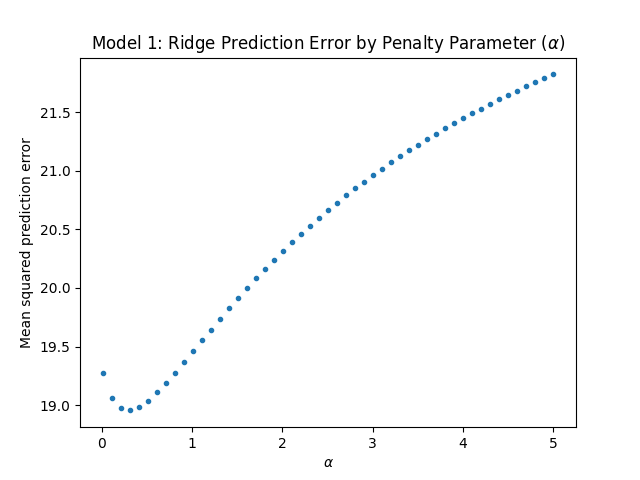
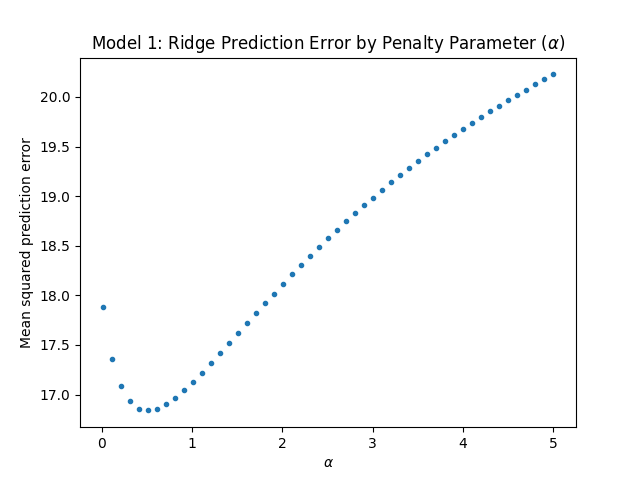
Added the ability to change order of summ. table rows

diff --git a/code/fepredictionmodel.py b/code/fepredictionmodel.py
@@ -70,7 +70,6 @@ class FEPredictionModel:
     """
     Run fixed-effects ridge regression and produce summary statistics. 
     """
-
     def run_ridge(self, fixed_effects_var, exclude_variables=None):
 
         # generate one dummy variable for each entity except for one
@@ -86,8 +85,8 @@ class FEPredictionModel:
 
         # drop researcher-specified features
         if exclude_variables is not None:
-            self.x_train.drop(columns=exclude_variables)
-            self.x_test.drop(columns=exclude_variables)
+            self.x_train = self.x_train.drop(columns=exclude_variables)
+            self.x_test = self.x_test.drop(columns=exclude_variables)
 
         # run ridge with multiple alphas and pick the best
         alphas = np.linspace(0.01, 5, num=51)
@@ -117,14 +116,13 @@ class FEPredictionModel:
     """
     Produces a KDE of the distribution of a certain variable.
     """
-
     def get_kde_plot(self, column, plot_title, xlabel):
         figure1 = plt.figure(1)
         # kde plot for training dataset
-        ax1 = pd.concat([self.x_train, self.y_train], axis=1)[column].plot.kde(title=plot_title,
+        pd.concat([self.x_train, self.y_train], axis=1)[column].plot.kde(title=plot_title,
                                                                                label='Training dataset')
         # kde plot for testing dataset
-        ax1 = pd.concat([self.x_test, self.y_test], axis=1)[column].plot.kde(label='Testing dataset')
+        pd.concat([self.x_test, self.y_test], axis=1)[column].plot.kde(label='Testing dataset')
         figure1.legend(loc='center')
         plt.xlim([-10, 40])
         plt.xlabel(xlabel)
@@ -133,7 +131,6 @@ class FEPredictionModel:
     """
     Produce a table of summary statistics for select variables in PNG format.
     """
-
     def get_summary_statistics(self, variables, labels):
         rename_dict = {}  # create dictionary to rename the columns
         for variable, label in zip(variables, labels):
@@ -142,6 +139,10 @@ class FEPredictionModel:
         testing_statistics = pd.concat([self.x_test[self.numeric_features], self.y_test], axis=1).describe()
         training_statistics = training_statistics.rename(columns=rename_dict)
         testing_statistics = testing_statistics.rename(columns=rename_dict)
+
+        # change order of variables
+        training_statistics = training_statistics[labels]
+        training_statistics = testing_statistics[labels]
 
         dfi.export(training_statistics.transpose()[['count', 'mean', 'std', '50%']], os.path.join(self.table_output, 'train_summary_stats.png'))
         dfi.export(testing_statistics.transpose()[['count', 'mean', 'std', '50%']], os.path.join(self.table_output, 'test_summary_stats.png'))

diff --git a/code/main.py b/code/main.py
@@ -46,10 +46,10 @@ fig.write_image(os.path.join(model1_graph_output, 'observed_counties_map.png'), 
 model_1.get_kde_plot('filings', "KDE of Eviction Filings at Census Tract-Month Level", "Number of filings")
 
 # Table 1
-labels = ['Civilian non-institutionalized population (previous month)',
+labels = ['Eviction filings',
+          'Civilian non-institutionalized population (previous month)',
           'Unemployment rate (previous month)',
           'Eviction filings  (previous month)',
-          'Eviction filings',
           '% of workers with <15 min. commute',
           '% single parent households (2010)',
           '% single parent households (1990)',
@@ -82,10 +82,10 @@ labels = ['Civilian non-institutionalized population (previous month)',
           'Population density (2010)',
           'Average annualized job growth (2004-2013)',
           'Number of jobs per square mile']
-variables = ['L1_cnip',
+variables = ['filings',
+             'L1_cnip',
              'L1_unemployment_rate',
              'L1_filings',
-             'filings',
              'traveltime15_2010',
              'singleparent_share2010',
              'singleparent_share1990',
@@ -123,5 +123,5 @@ model_1.get_summary_statistics(variables=variables,
 
 # For the first model, we exclude census tract level covariates
 print(model_1.x_train.columns)
-model_1.run_ridge('fips', exclude_variables=[variables[4:]])
+model_1.run_ridge('fips', exclude_variables=variables[4:])
 print(model_1.optimal_mse)
